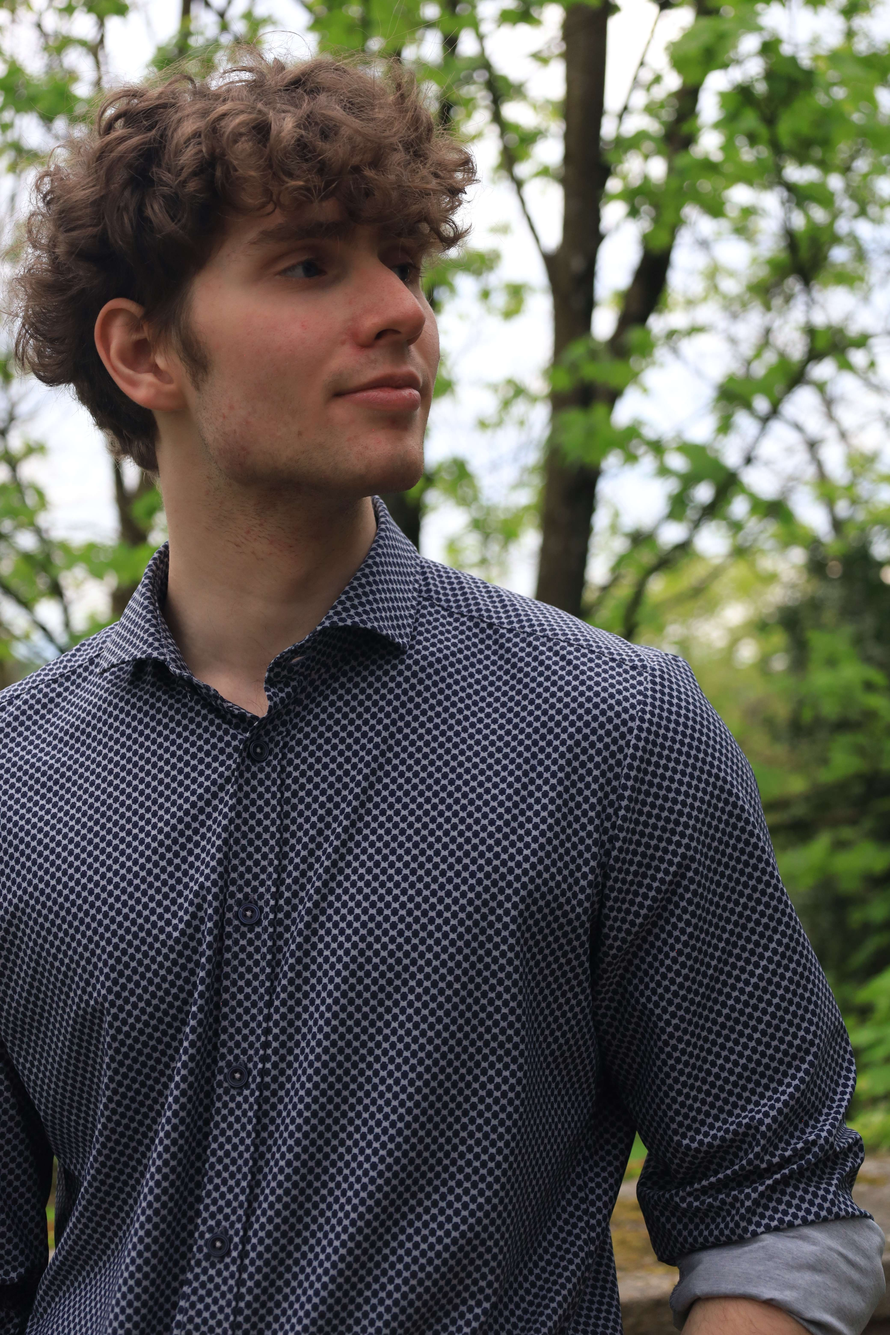
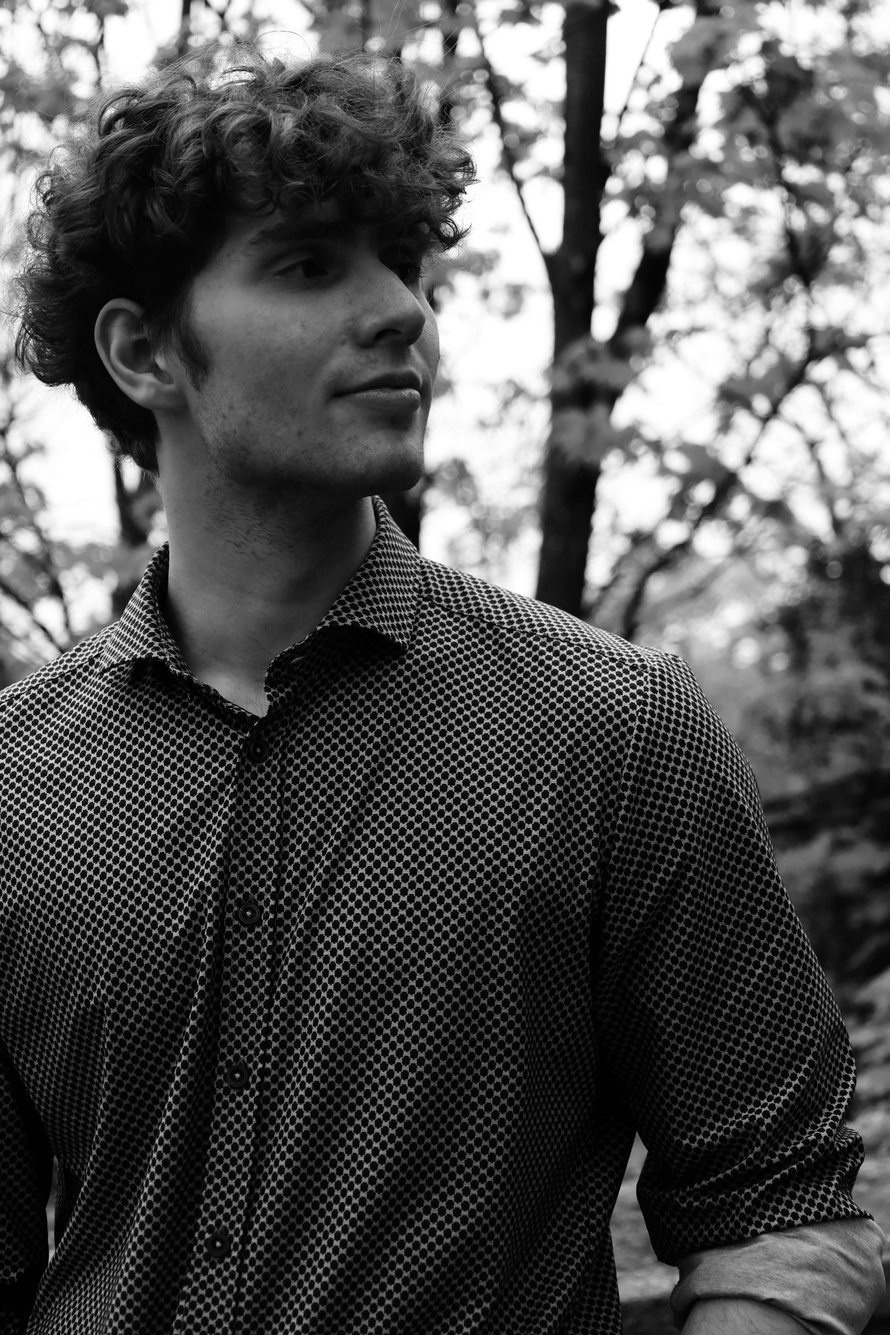
First 2 Sections styled (for now)

diff --git a/public/index.html b/public/index.html
@@ -1,6 +1,7 @@
 <!DOCTYPE html>
 <html lang="en">
-  <head>
+
+<head>
     <title>Paul Bankl Portfolio</title>
     <meta name="author" content="Paul Bankl">
     <meta charset="utf-8">
@@ -8,77 +9,108 @@
     <link rel="stylesheet" href="style.css">
 
     <link rel="preconnect" href="https://fonts.googleapis.com">
-<link rel="preconnect" href="https://fonts.gstatic.com" crossorigin>
-<link href="https://fonts.googleapis.com/css2?family=Barlow+Condensed:wght@300;400;500;600;700;800;900&display=swap" rel="stylesheet">
+    <link rel="preconnect" href="https://fonts.gstatic.com" crossorigin>
+    <link href="https://fonts.googleapis.com/css2?family=Barlow+Condensed:wght@300;400;500;600;700;800;900&display=swap"
+        rel="stylesheet">
 
-  </head>
-  
-  <body>
+</head>
+
+<body>
 
     <section id="IntroArea">
         <div id="leftsideIntro">
-            <div id = "leftBar">
+            <div id="leftBar">
                 <a href="#IntroArea">Paul Bankl - Portfolio</a>
             </div>
-             <p id="p1">Portfolio</p>
-     <h1 id="Name">Paul <br> Bankl</h1>
-      <hr>
-     <p id="p2">Media Technology Student</p>
+            <p id="p1">Portfolio</p>
+            <h1 id="Name">Paul <br> Bankl</h1>
+            <hr>
+            <p id="p2">Media Technology Student</p>
         </div>
         <div id="rightsideIntro">
             <nav class="navbar">
-                    <a href="#IntroArea">Home</a>
-                    <a href="#Education">Education</a>
-                    <a href="#Skills">Skills</a>
-                    <a href="#Projects">Projects</a>
-                    <a href="#AboutMe">About Me</a>
-                    <a href="#footer">Impressum</a>
+                <a href="#IntroArea">Home</a>
+                <a href="#Education">Education</a>
+                <a href="#Skills">Skills</a>
+                <a href="#Projects">Projects</a>
+                <a href="#AboutMe">About Me</a>
+                <a href="#footer">Impressum</a>
             </nav>
-            </div>
-            <div id="SocialLinks">
-                <a href="https://github.com/paulbankl" target="_blank">GitHub</a>
-                <a href="https://www.linkedin.com/in/paul-bankl" target="_blank">LinkedIn</a>
+            <div class="socials">
+                <div>
+                    <p>Email</p>
+                    <p>GitHub</p>
+                    <p>LinkedIn</p>
+                </div>
+                <div>
+                    <a href="mailto:paul.n.bankl@gmail.com">paul.n.bankl@gmail.com</a>
+                    <a href="https://github.com/PaulBankl" target="_blank">github.com/PaulBankl</a>
+                    <a href="https://www.linkedin.com/in/paul-bankl" target="_blank">www.linkedin.com/in/paul-bankl</a>
+                </div>
             </div>
     </section>
     <section id="Education">
+        <div class="topRows">
+            <p>01</p>
+            <hr>
+            <p id="EducationTitle">Education</p>
+        </div>
+        <div class="edu">
+            <div>
+                <p>2016-2024</p>
+                <h1>Matura</h1>
+                <p>Gymnasium der Kreuzschwestern Linz</p>
+            </div>
+            <div class="vertical-line"></div>
+            <div>
+                <p>2024-2027</p>
+                <h1>B.Sc. Media Technology and Design</h1>
+                <a href="https://fh-ooe.at/campus-hagenberg" target="_blank">University of Applied Sciences Upper Austria — FH Hagenberg</a>
+            </div>
+        </div>
         <hr>
-        <p>I am a Media Technology student at the University of Applied Sciences in Salzburg. I have a passion for software development, game design, and backend-focused projects. I enjoy creating innovative solutions and exploring new technologies.</p> <vr></vr>
     </section>
     <section id="Skills">
-        <h2>Skills</h2>
-        <p>I have experience in various programming languages and technologies, including Python, Java, and web development frameworks. I am also familiar with database management and cloud computing platforms.</p>
+        <div class="topRows">
+            <p>02</p>
+            <hr>
+            <p id="SkillsTitle">Skills</p>
+        </div>
     </section>
     <section id="Projects">
         <h2>Projects</h2>
-        <p>I have worked on various projects throughout my studies, including software development, game design, and backend-focused applications. I enjoy creating innovative solutions and exploring new technologies.</p>
+        <p>I have worked on various projects throughout my studies, including software development, game design, and
+            backend-focused applications. I enjoy creating innovative solutions and exploring new technologies.</p>
     </section>
     <section id="AboutMe">
         <h2>About Me</h2>
-        <p>Hi, my name is Paul Bankl and I am a Media Technology student at the University of Applied Sciences in Salzburg. I have a passion for software development, game design, and backend-focused projects. I enjoy creating innovative solutions and exploring new technologies.</p>
+        <p>Hi, my name is Paul Bankl and I am a Media Technology student at the University of Applied Sciences in
+            Salzburg. I have a passion for software development, game design, and backend-focused projects. I enjoy
+            creating innovative solutions and exploring new technologies.</p>
     </section>
 
 
 
 
 
-<footer id="footer">
-    <p>Copyright © 2026 Paul Bankl</p>
+    <footer id="footer">
+        <p>Copyright © 2026 Paul Bankl</p>
 
-  </footer>
-  <script>
-    const navbar = document.querySelector(".navbar");
-    const leftBar = document.getElementById("leftBar");
+    </footer>
+    <script>
+        const navbar = document.querySelector(".navbar");
+        const leftBar = document.getElementById("leftBar");
 
-    window.addEventListener("scroll", () => {
-        if (window.scrollY > 80) {
-            navbar.classList.add("scrolled");
-            leftBar.classList.add("scrolled");
-        } else {
-            navbar.classList.remove("scrolled");
-            leftBar.classList.remove("scrolled");
-        }
-    });
-</script>
-  </body>
+        window.addEventListener("scroll", () => {
+            if (window.scrollY > 80) {
+                navbar.classList.add("scrolled");
+                leftBar.classList.add("scrolled");
+            } else {
+                navbar.classList.remove("scrolled");
+                leftBar.classList.remove("scrolled");
+            }
+        });
+    </script>
+</body>
 
 </html>

diff --git a/public/style.css b/public/style.css
@@ -108,8 +108,77 @@ body {
     text-decoration: none;
 }
 
-
+.socials {
+    display: grid;
+    grid-template-columns: 1fr 2fr ;
+    grid-template-rows: 1fr 1fr 1fr;
+    width: 38vw;
+    height: auto;
+    margin-top: 70vh;
+    margin-left: 7vw;
+    
+}
+.socials a, .socials p{
+    color: white;
+    text-decoration: none;
+    text-shadow: 0px 0px 5px black;
+    font-size: 2rem;
+    margin: 0;
+    margin-bottom: 1rem;
+}
+.socials a{
+    display: block;
+}
 
 hr{
-    width: 80%;
+    width: 70vw;
+}
+
+/* Education */
+
+#Education{
+    height: 55vh;
+    margin: 0;
+}
+.topRows{
+    display: flex;
+    flex-direction: row;
+    align-items: center;
+    margin-top: 14vh;
+    width: 80vw;
+    margin-left: 10vw;
+    margin-right: 10vw;
+    margin-bottom: 5vw;
+    gap: 1rem;
+}
+.edu {
+    margin-left: 33vw;
+    color: black;
+     display: flex;
+    flex-direction: row;
+    gap: 3rem;
+    margin-bottom: 15vh;
+    margin-bottom: 20vh;
+}
+.edu a{
+    text-decoration: none;
+    color: black;
+    display: block;
+}
+.vertical-line{
+    margin-top: -2vh;
+    width: 1px;
+    background-color: gray;
+    height: 20vh;
+}
+#Education hr{
+    width: 80vw;
+    margin: 0 auto;
+}
+
+/* Skills */
+
+#Skills hr{
+    width: 80vw;
+    margin: 0 auto;
 }
